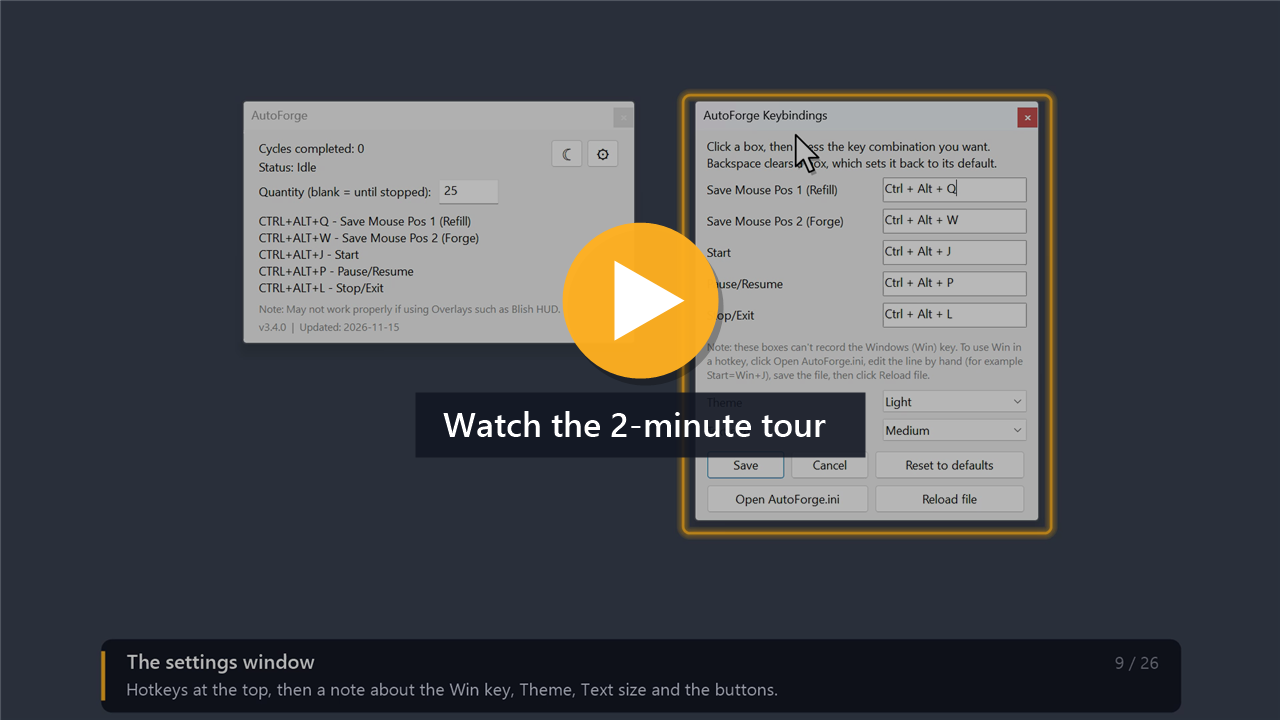
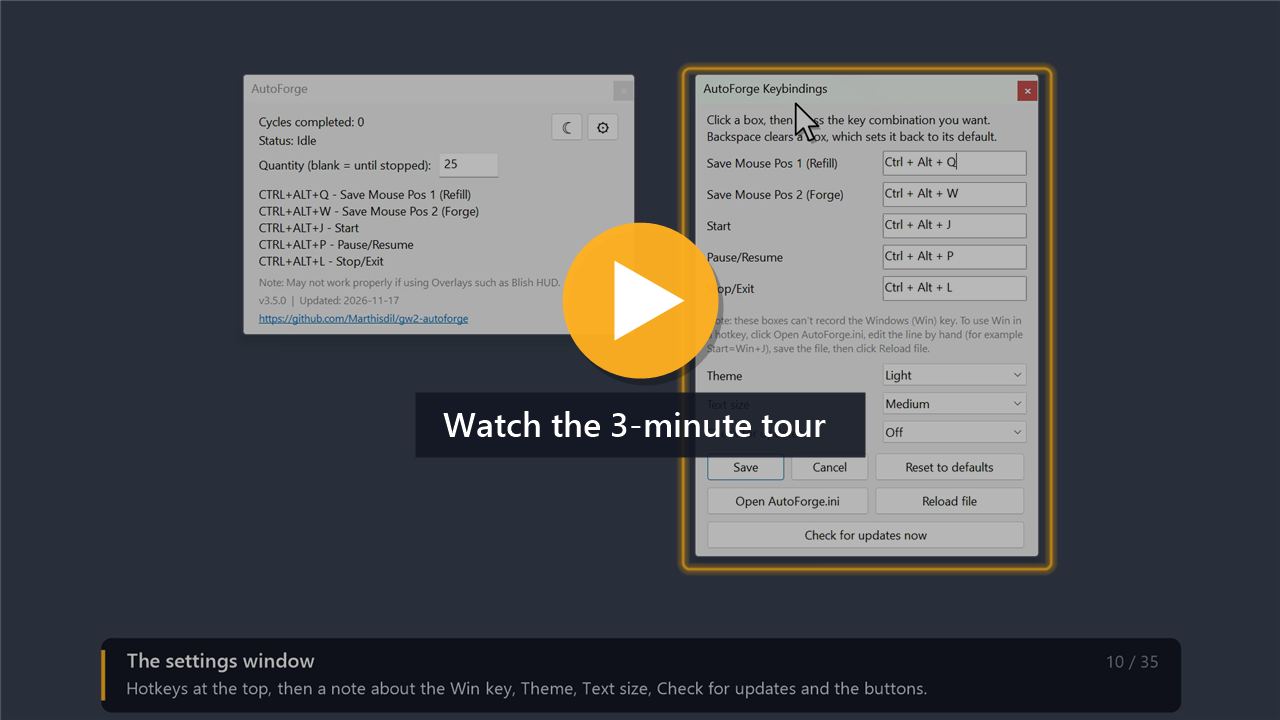
Add repo link and optional self-update

diff --git a/README.md b/README.md
@@ -7,11 +7,11 @@ keep going until you stop it.
 
 ## Video tour
 
-A 2-minute silent walkthrough of the AutoForge window and every setting: the
-theme toggle, changing hotkeys, theme and text size. Click the image to play it
-(MP4, 22 MB).
+A short silent walkthrough of the AutoForge window and every setting: the theme
+toggle, the GitHub link, changing hotkeys, theme, text size and updates. Click the
+image to play it (MP4, about 3 minutes, 31 MB).
 
-[![AutoForge video tour: click to play](docs/autoforge-tour.png)](https://github.com/Marthisdil/gw2-autoforge/releases/download/v3.4.0/AutoForge-v3.4.0-tour.mp4)
+[![AutoForge video tour: click to play](docs/autoforge-tour.png)](https://github.com/Marthisdil/gw2-autoforge/releases/download/v3.5.0/AutoForge-v3.5.0-tour.mp4)
 
 ## Features
 
@@ -20,6 +20,8 @@ theme toggle, changing hotkeys, theme and text size. Click the image to play it
 - **Pause and resume:** Hold the run with a hotkey without losing your cycle count.
 - **Automatic pause:** The run holds when you switch away from the game and picks up again when you switch back.
 - **Status window:** A small window at the top of the screen shows the cycle count, the current status, and the controls. It stays on top of the game without taking focus.
+- **Easy on the eyes:** Light or dark theme, and four text sizes.
+- **Updates:** Optionally checks GitHub for a newer version and installs it for you, after asking.
 
 ## Requirements
 
@@ -29,8 +31,10 @@ theme toggle, changing hotkeys, theme and text size. Click the image to play it
 ## Installation
 
 1. Install AutoHotkey v2.
-2. Download [`AutoForge.ahk`](AutoForge.ahk) from this repository.
+2. Download `AutoForge.ahk` from the [latest release](https://github.com/Marthisdil/gw2-autoforge/releases/latest).
 3. Double-click `AutoForge.ahk` to start it. The AutoForge window appears at the top of your screen.
+
+After that, AutoForge can keep itself up to date. See [Updating AutoForge](#updating-autoforge).
 
 ## How to use it
 
@@ -85,6 +89,7 @@ Exit=Ctrl+Alt+L
 [Settings]
 Theme=Light
 TextSize=Medium
+CheckForUpdates=Off
 ```
 
 1. In the gear window, click **Open AutoForge.ini** (or open the file in any text editor).
@@ -98,6 +103,35 @@ the defaults, delete a line or the whole file.
 Avoid keys you use in the game. A hotkey with no modifier, such as `F9`, stops
 that key from reaching Guild Wars 2.
 
+## Updating AutoForge
+
+AutoForge can check this repository's [releases](https://github.com/Marthisdil/gw2-autoforge/releases)
+for a newer version and install it for you. This works from v3.5.0 on. For older
+versions, download the new `AutoForge.ahk` by hand once.
+
+- **Automatic check (off by default):** In the gear window, set **Check for updates**
+  to **At startup**. AutoForge then checks a few seconds after it starts, and only
+  speaks up if there's a newer version.
+- **Check now:** Click **Check for updates now** in the gear window at any time. It
+  tells you if you're already up to date, or if GitHub couldn't be reached.
+
+When a newer version is available, AutoForge shows what's new and asks before it
+downloads anything. If you click **Yes**, it:
+
+1. Downloads the new `AutoForge.ahk` from the release.
+2. Checks it: it must be the version it says, and AutoHotkey must be able to load it.
+   If not, nothing is changed.
+3. Keeps your current script as `AutoForge.ahk.bak` in the same folder.
+4. Replaces `AutoForge.ahk` and restarts AutoForge.
+
+Your settings in `AutoForge.ini` are kept. Saved mouse positions aren't, so save
+both positions again after an update. To go back to the old version, close
+AutoForge, delete `AutoForge.ahk` and rename `AutoForge.ahk.bak` to `AutoForge.ahk`.
+
+AutoForge needs to be able to write to its own folder to update itself. The check
+only contacts GitHub (`api.github.com`), and doesn't send anything about you or
+your settings.
+
 ## The AutoForge window
 
 - **Cycles completed:** How many crafts have run, for example `3 / 10` when you set a quantity.
@@ -110,9 +144,9 @@ that key from reaching Guild Wars 2.
   - `Save both positions first (Q / W)`: you pressed Start before saving both positions.
 - **Quantity:** How many crafts to run. Blank means run until stopped.
 - **Theme button (☾ / ☀):** Switches between the light and dark theme. The keybinding window has the same choice under **Theme**. Your choice is saved in `AutoForge.ini`.
-- **Gear button (⚙):** Opens the keybinding window. It also has a **Text size** choice: Small, Medium (the original size), Large or Extra large. Both windows resize to fit right away, and your choice is saved in `AutoForge.ini`.
+- **Gear button (⚙):** Opens the keybinding window. It also has a **Text size** choice: Small, Medium (the original size), Large or Extra large. Both windows resize to fit right away, and your choice is saved in `AutoForge.ini`. Its update options are described in [Updating AutoForge](#updating-autoforge).
 - The status messages and hotkey list show your current hotkeys, not just the defaults.
-- The footer shows the script version and the date it was last updated.
+- The footer shows the script version, the date it was last updated, and a link to this GitHub page. Click the link to open it in your browser.
 
 ## Notes
 

diff --git a/CHANGELOG.md b/CHANGELOG.md
@@ -2,6 +2,19 @@
 
 All notable changes to AutoForge are listed here, newest first.
 
+## 3.5.0 - 2026-11-17
+- Added a link to the GitHub page at the bottom of the AutoForge window. Click
+  it to open the page in your browser.
+- AutoForge can now update itself. In the gear window, set **Check for updates**
+  to **At startup** (it's **Off** by default), or click **Check for updates
+  now** at any time.
+- When a newer release is out, AutoForge shows what's new and asks before
+  downloading anything. If you say yes, it checks the download, keeps your
+  current script as `AutoForge.ahk.bak`, installs the new version and restarts.
+  Your settings are kept; save your two mouse positions again after it restarts.
+- The update setting is saved in `AutoForge.ini` as `CheckForUpdates`.
+- **Reload file** in the gear window now also reloads the update setting.
+
 ## 3.4.1 - 2026-11-16
 - The script's header comments now give its license (MIT) and a link to the
   GitHub repository, where you can find the latest version. Nothing else changed.
